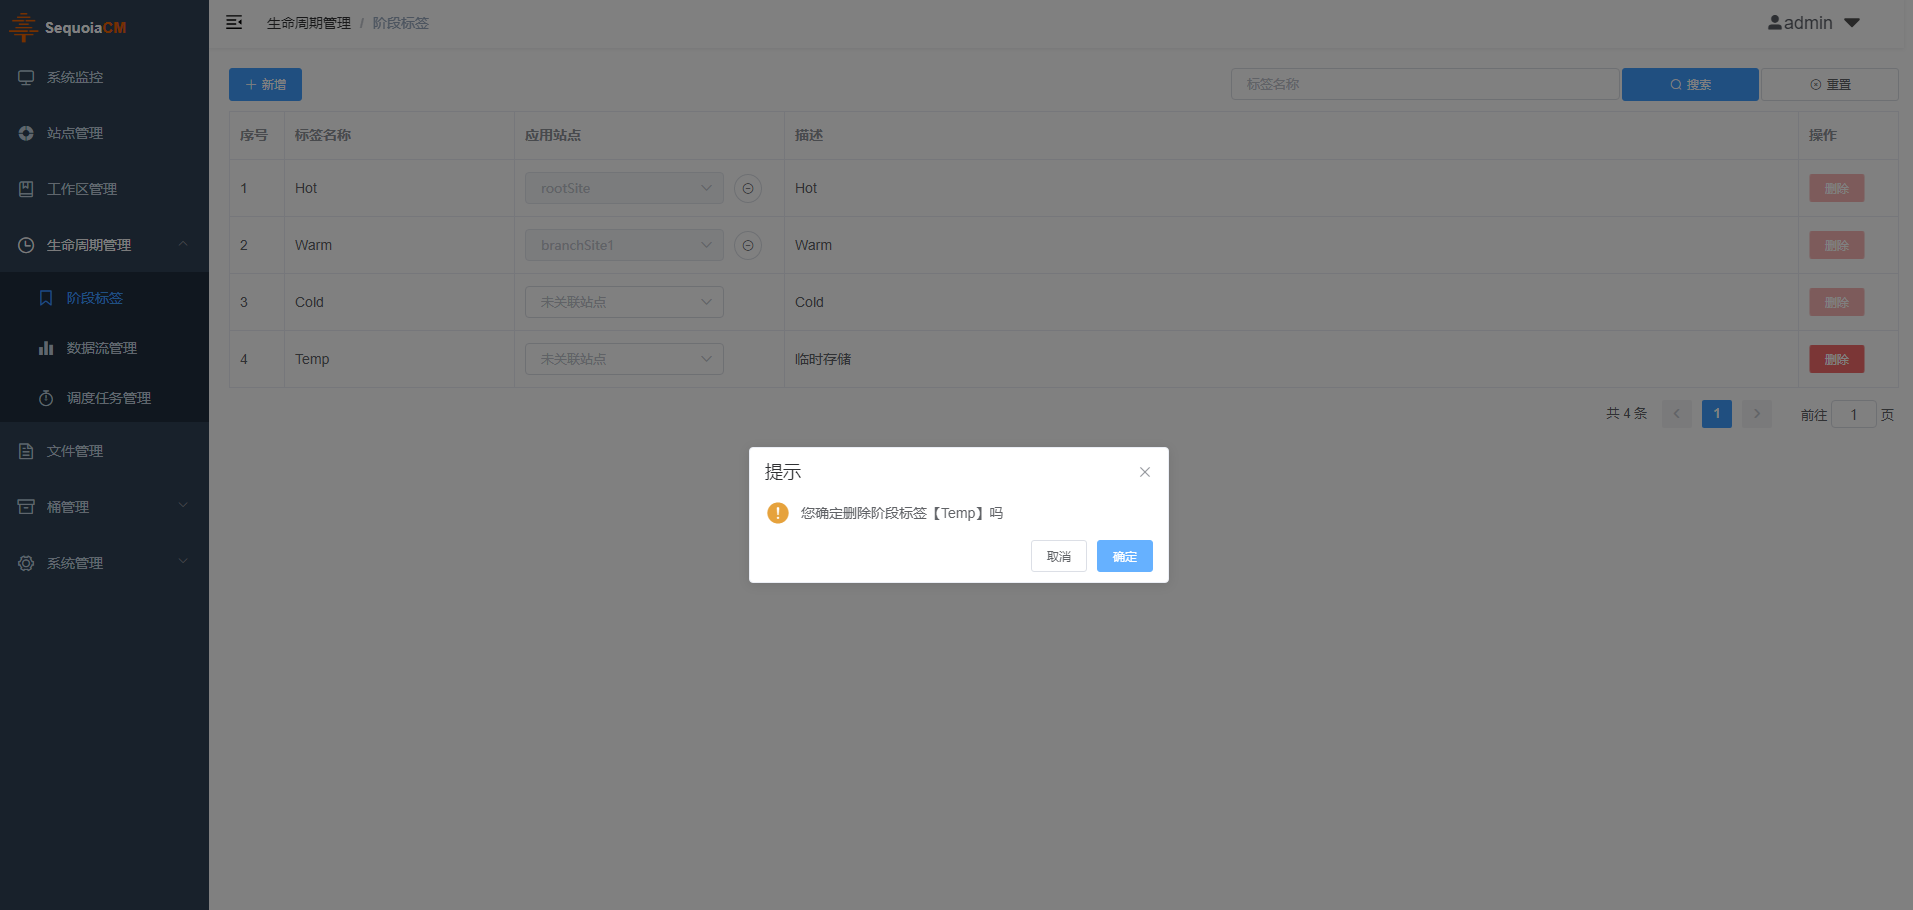
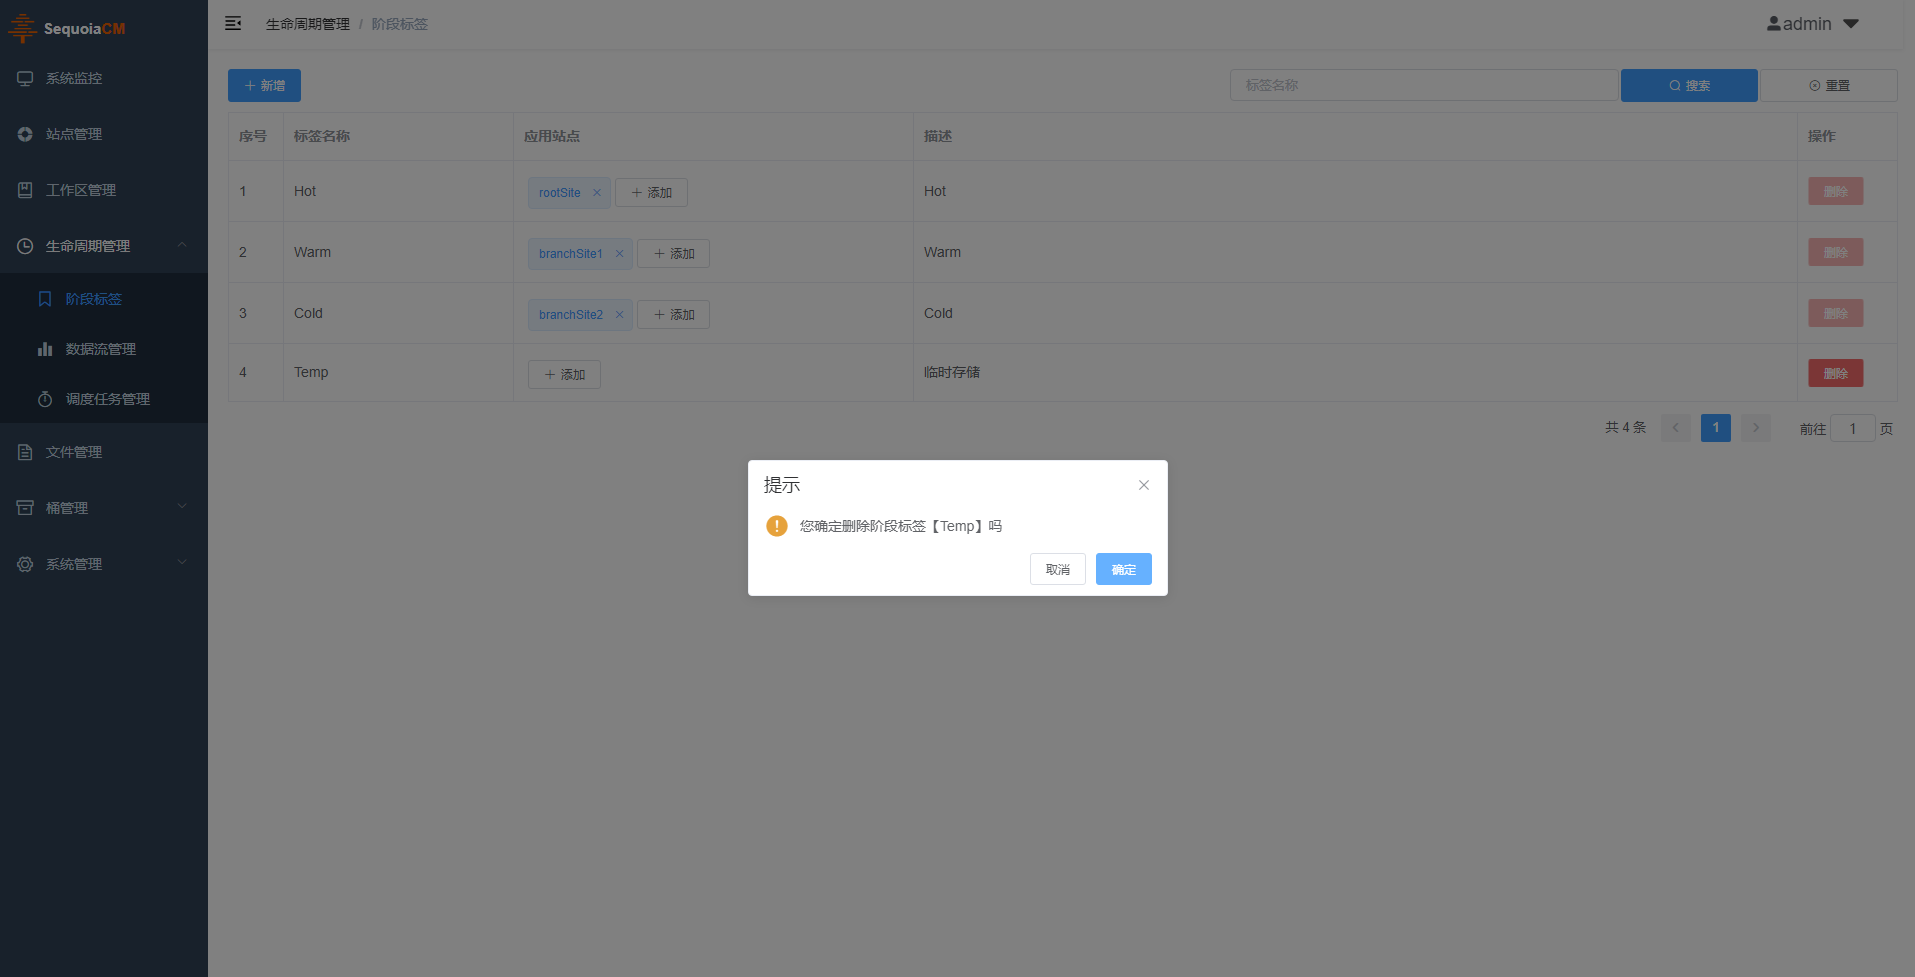
SEQUOIACM-1266: 解决阶段标签无法应用到多个站点问题

diff --git a/src/om-server/project/server/sequoiacm-om-omserver/om-ui/src/views/lifecycle/stage_tag/index.vue b/src/om-server/project/server/sequoiacm-om-omserver/om-ui/src/views/lifecycle/stage_tag/index.vue
@@ -44,28 +44,18 @@
           </el-table-column>
           <el-table-column
             prop="site"
-            show-overflow-tooltip
             label="应用站点"
-            width="270">
+            width="400">
             <template slot-scope="scope">
-              <el-select
-                id="select_transition_conf_site"
-                v-model="scope.row.bindingSite" 
-                placeholder="未关联站点" 
-                size="small"
-                width="220"
-                :disabled="scope.row.bindingSite != null"
-                @change="onBindingSite(scope.row)">
-                <el-option
-                  v-for="item in freeSiteList"
-                  :key="item"
-                  :label="item"
-                  :value="item">
-                </el-option>
-              </el-select>
-              <el-tooltip content="点击解除阶段标签与该站点的关联" placement="top">
-                <span><el-button v-if="scope.row.bindingSite" size="mini" icon="el-icon-remove-outline" @click="unbindindSite(scope.row)" circle style="margin-left:10px"></el-button></span>
-              </el-tooltip>
+              <el-tag
+                :key="site"
+                v-for="site in scope.row.bindingSite"
+                style="margin-left: 4px; margin-top: 4px"
+                closable
+                @close="handleRemoveSite(scope.row.name, site)">
+                {{site}}
+              </el-tag>
+              <el-button size="mini" icon="el-icon-plus" style="margin-left: 4px; margin-top: 4px" @click="handlApplySite(scope.row)">添加</el-button>
             </template>
           </el-table-column>
           <el-table-column
@@ -101,17 +91,20 @@
 
     <!-- 新增阶段标签弹框 -->
     <stage-tag-create-dialog ref="stageTagCreateDialog" @onStageTagCreated="queryTableData"></stage-tag-create-dialog>
+    <!-- 阶段标签添加站点弹框 -->
+    <stage-tag-apply-site-dialog ref="stageTagApplySiteDialog" @onStageTagChanged="queryTableData"></stage-tag-apply-site-dialog>
   </div>
 </template>
 <script>
 import StageTagCreateDialog from './components/StageTagCreateDialog.vue'
+import StageTagApplySiteDialog from './components/StageTagApplySiteDialog.vue'
 import { Loading } from 'element-ui'
 import { X_RECORD_COUNT, SYSTEM_STAGE_TAGS } from '@/utils/common-define'
-import { listStageTag, deleteStageTag, addStageTag, removeStageTag } from "@/api/lifecycle"
-import { querySiteList } from "@/api/site"
+import { listStageTag, deleteStageTag, removeStageTag } from "@/api/lifecycle"
 export default {
   components: {
-    StageTagCreateDialog
+    StageTagCreateDialog,
+    StageTagApplySiteDialog
   },
   data(){
     return {
@@ -125,51 +118,36 @@ export default {
         name: undefined
       },
       tableLoading: false,
-      tableData: [],
-      freeSiteList: []
+      tableData: []
     }
   },
   methods:{
     // 初始化
     init(){
       this.queryTableData()
-      this.initFreeSiteList()
-    },
-    // 初始化空闲的（无阶段标签）的站点列表
-    initFreeSiteList() {
-      this.freeSiteList = []
-      querySiteList().then(res => {
-        let siteList = res.data
-        if (siteList && siteList.length > 0) {
-          for (let site of siteList) {
-            if (!site.stage_tag || site.staget_tag === '') {
-              this.freeSiteList.push(site.name)
-            }
-          }
-        }
-      })
     },
     // 新增阶段标签
     handleCreateBtnClick() {
       this.$refs['stageTagCreateDialog'].show()
     },
     // 站点设置阶段标签
-    onBindingSite(row) {
-      addStageTag(row.bindingSite, row.name).then(res => {
-        this.$message.success(`阶段标签【${row.name}】关联站点成功`)
-        this.freeSiteList.splice(this.freeSiteList.indexOf(row.bindingSite), 1);
-        this.queryTableData()
-      })
+    handlApplySite(row) {
+      this.$refs['stageTagApplySiteDialog'].show(row.name)
     },
     // 移除站点的阶段标签
-    unbindindSite(row) {
-      if (row.bindingSite && row.bindingSite !== '') {
-        removeStageTag(row.bindingSite).then(res => {
-          this.$message.success(`阶段标签【${row.name}】解除关联站点成功`)
-          this.freeSiteList.push(row.bindingSite)
+    handleRemoveSite(stageTag, site) {
+      let confirmMsg = `您确认解除阶段标签【${stageTag}】与站点【${site}】的关联吗吗`
+      this.$confirm(confirmMsg, '提示', {
+        confirmButtonText: '确定',
+        cancelButtonText: '取消',
+        confirmButtonClass: 'btn_site_confirmRemoveStageTag',
+        type: 'warning'
+      }).then(() => {
+        removeStageTag(site).then(res => {
+          this.$message.success(`阶段标签【${stageTag}】解除关联站点【${site}】成功`)
           this.queryTableData()
         })
-      }
+      })
     },
     // 删除阶段标签
     handleDeleteBtnClick(row) {

diff --git a/src/om-server/project/server/sequoiacm-om-omserver/om-ui/src/views/lifecycle/stage_tag/components/StageTagApplySiteDialog.vue b/src/om-server/project/server/sequoiacm-om-omserver/om-ui/src/views/lifecycle/stage_tag/components/StageTagApplySiteDialog.vue
@@ -1,0 +1,86 @@
+<template>
+  <div>
+    <el-dialog
+      :title="this.stageTag + ' 添加应用站点'"
+      :visible.sync="stageTagApplySiteDialog"
+      width="600px">
+        <el-form ref="form" :model="form" size="small" label-width="150px">
+          <el-form-item label="选择站点" prop="site">
+            <el-select
+                v-model="form.site" 
+                placeholder="请选择需要应用的站点" 
+                size="medium"
+                width="250">
+                <el-option
+                  v-for="item in freeSiteList"
+                  :key="item"
+                  :label="item"
+                  :value="item">
+                </el-option>
+              </el-select>
+          </el-form-item>
+        </el-form>
+        <span slot="footer" class="dialog-footer">
+          <el-button @click="close" size="mini">关 闭</el-button>
+          <el-button @click="submit" type="primary" :disabled="form.site===''" size="mini">添 加</el-button>
+        </span>
+    </el-dialog>
+  </div>
+</template>
+
+<script>
+import { querySiteList } from "@/api/site"
+import { addStageTag } from "@/api/lifecycle"
+export default {
+  data() {
+    return{
+      stageTagApplySiteDialog: false,
+      freeSiteList: [],
+      stageTag: '',
+      form: {
+        site: ''
+      },
+    }
+  },
+  methods: {
+    submit() { 
+      addStageTag(this.form.site, this.stageTag).then(res => {
+        this.$message.success(`阶段标签【${this.stageTag}】关联站点【${this.form.site}】成功`)
+        this.close()
+        this.$emit('onStageTagChanged')
+      })
+    },
+    show(stagetTag) {
+      this.stageTag = stagetTag
+      // 初始化空闲的（无阶段标签）的站点列表
+      this.freeSiteList = []
+      querySiteList().then(res => {
+        let siteList = res.data
+        if (siteList && siteList.length > 0) {
+          for (let site of siteList) {
+            if (!site.stage_tag || site.staget_tag === '') {
+              this.freeSiteList.push(site.name)
+            }
+          }
+        }
+      }),
+      this.stageTagApplySiteDialog = true
+    },
+    close() {
+      this.clear()
+      this.stageTagApplySiteDialog = false
+    },
+    clear() {
+      setTimeout(()=>{
+        // 重置表单
+        this.clearForm()
+      }, 500)
+    },
+    clearForm() {
+      if (this.$refs['form']) {
+        this.$refs['form'].resetFields()
+      }
+    }
+  }
+}
+</script>

diff --git a/src/om-server/project/server/sequoiacm-om-omserver/om-ui/src/views/lifecycle/stage_tag/components/StageTagCreateDialog.vue b/src/om-server/project/server/sequoiacm-om-omserver/om-ui/src/views/lifecycle/stage_tag/components/StageTagCreateDialog.vue
@@ -13,7 +13,7 @@
               <el-input id="input_stage_tag_description" v-model="stageTag.description" placeholder="请输入标签述信息"></el-input>
             </el-form-item>
           </el-form>
-        <span slot="footer" class="dialog-footer" style="border:1px soild red">
+        <span slot="footer" class="dialog-footer">
           <el-button id="btn_create_stage_tag" @click="close" size="mini">关 闭</el-button>
           <el-button id="btn_create_stage_tag" @click="submit" type="primary" size="mini">保 存</el-button>
         </span>

diff --git a/src/om-server/project/server/sequoiacm-om-omserver/om-ui/src/views/lifecycle/transition/components/TransitionEditDialog.vue b/src/om-server/project/server/sequoiacm-om-omserver/om-ui/src/views/lifecycle/transition/components/TransitionEditDialog.vue
@@ -326,7 +326,7 @@
           </el-collapse-item>
         </el-collapse>
       </el-form>
-      <span slot="footer" class="dialog-footer" style="border:1px soild red">
+      <span slot="footer" class="dialog-footer">
         <el-button @click="close" size="mini">关 闭</el-button>
         <el-button @click="submit" type="primary" :loading="saveButtonLoading" size="mini">保 存</el-button>
       </span>

diff --git a/src/om-server/project/server/sequoiacm-om-omserver/om-ui/src/views/lifecycle/transition/components/TransitionWsDialog.vue b/src/om-server/project/server/sequoiacm-om-omserver/om-ui/src/views/lifecycle/transition/components/TransitionWsDialog.vue
@@ -20,7 +20,7 @@
             </el-tooltip>
           </div>
         </el-transfer>
-        <span slot="footer" class="dialog-footer" style="border:1px soild red">
+        <span slot="footer" class="dialog-footer">
           <el-button id="btn_create_close" @click="close" size="mini">关 闭</el-button>
         </span>
     </el-dialog>

diff --git a/src/om-server/project/server/sequoiacm-om-omserver/src/main/java/com/sequoiacm/om/omserver/dao/impl/ScmLifeCycleConfigDaoImpl.java b/src/om-server/project/server/sequoiacm-om-omserver/src/main/java/com/sequoiacm/om/omserver/dao/impl/ScmLifeCycleConfigDaoImpl.java
@@ -51,7 +51,7 @@ public class ScmLifeCycleConfigDaoImpl implements ScmLifeCycleConfigDao {
             List<OmStageTagDetail> matchStageTagList = new ArrayList<>();
             String nameMatcher = BsonUtils.getString(condition, "nameMatcher");
             for (ScmLifeCycleStageTag scmLifeCycleStageTag : stageTagList) {
-                String bindingSite = getBindingSite(siteList, scmLifeCycleStageTag.getName());
+                List<String> bindingSite = getBindingSite(siteList, scmLifeCycleStageTag.getName());
                 if (StringUtils.isEmpty(nameMatcher)) {
                     matchStageTagList.add(new OmStageTagDetail(scmLifeCycleStageTag, bindingSite));
                     continue;
@@ -131,13 +131,15 @@ public class ScmLifeCycleConfigDaoImpl implements ScmLifeCycleConfigDao {
         }
     }
 
-    private String getBindingSite(List<ScmSiteInfo> siteList, String stageTag) throws ScmException {
+    private List<String> getBindingSite(List<ScmSiteInfo> siteList, String stageTag)
+            throws ScmException {
+        List<String> res = new ArrayList<>();
         for (ScmSiteInfo scmSiteInfo : siteList) {
             if (StringUtils.equals(scmSiteInfo.getStageTag(), stageTag)) {
-                return scmSiteInfo.getName();
+                res.add(scmSiteInfo.getName());
             }
         }
-        return null;
+        return res;
     }
 
     @Override

diff --git a/src/om-server/project/server/sequoiacm-om-omserver/src/main/java/com/sequoiacm/om/omserver/module/lifecycle/OmStageTagDetail.java b/src/om-server/project/server/sequoiacm-om-omserver/src/main/java/com/sequoiacm/om/omserver/module/lifecycle/OmStageTagDetail.java
@@ -3,17 +3,19 @@ package com.sequoiacm.om.omserver.module.lifecycle;
 import com.fasterxml.jackson.annotation.JsonProperty;
 import com.sequoiacm.client.element.lifecycle.ScmLifeCycleStageTag;
 
+import java.util.List;
+
 public class OmStageTagDetail extends OmStageTagBasic {
 
     @JsonProperty("bindingSite")
-    private String site;
+    private List<String> site;
 
-    public OmStageTagDetail(ScmLifeCycleStageTag lifeCycleStageTag, String site) {
+    public OmStageTagDetail(ScmLifeCycleStageTag lifeCycleStageTag, List<String> site) {
         super(lifeCycleStageTag);
         this.site = site;
     }
 
-    public void setSite(String site) {
+    public void setSite(List<String> site) {
         this.site = site;
     }
 }

diff --git a/doc/src/document/Om/Operation/Lifecycle/stage_tag.md b/doc/src/document/Om/Operation/Lifecycle/stage_tag.md
@@ -15,13 +15,13 @@
 
 ##关联站点##
 
-用户在应用站点栏的下拉框中选择站点后，即可将指定的标签与站点进行关联。
+用户在应用站点栏的点击 **+ 添加** 按钮后，将弹出添加应用站点对话框，通过下拉框选择站点，点击 **添加** 按钮即可将指定的标签与站点进行关联。
 
 ![关联站点][stage_tag_site]
 
 >**Note:**
 >
-> 如果需要解除标签与站点的关联，可点击下拉框右侧的删除图标。
+> 如果需要解除标签与站点的关联，可点击相应站点右侧的 **x** 删除图标。
 
 ##删除阶段标签##
 
